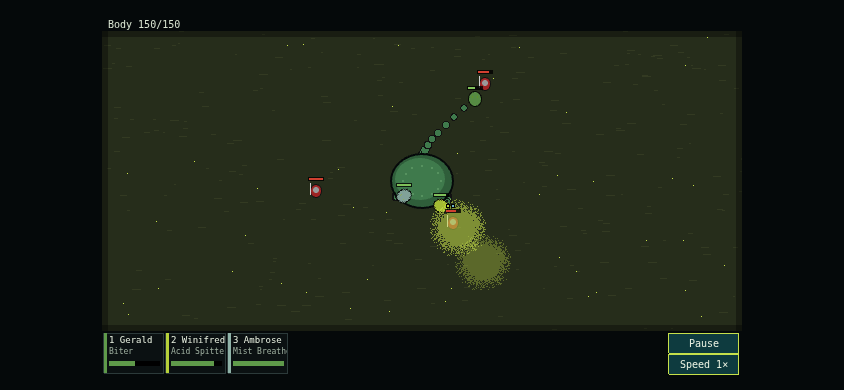
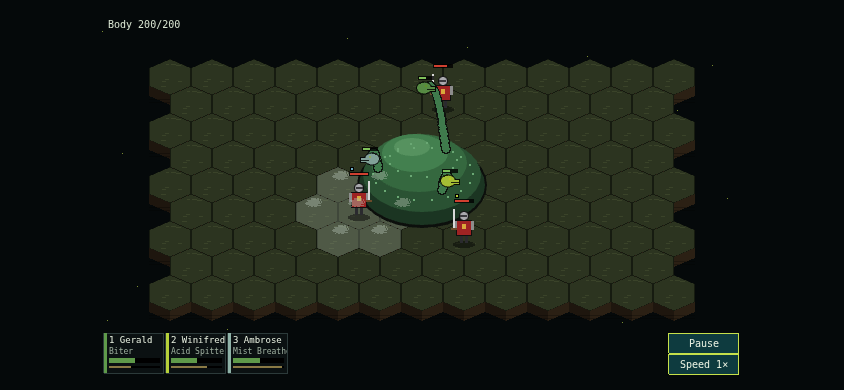
Smooth necks, hex wording in the hint, graphics spec for the slanted battle
docs/ASSETS.md describes every battle image for the slanted view (sizes,
anchors, prompt sketches); screenshots and the balance report are redone.

diff --git a/src/scenes/BattleScene.ts b/src/scenes/BattleScene.ts
@@ -33,7 +33,8 @@ const COMBO_SLOWDOWN_MS = 350;
 const HEAD_TAP_RADIUS = 14;
 /** Soldier images: how far around their feet a tap still counts as tapping them. */
 const SOLDIER_TAP = { halfWidth: 13, up: 38, down: 4 };
-const NECK_SEGMENTS = 12;
+/** Necks are drawn as overlapping discs, one every few pixels, so long necks stay one smooth tube. */
+const NECK_DISC_SPACING = 2.5;
 /** How fast drawn heads follow where they should be (ms to cover most of the way). */
 const HEAD_FOLLOW_MS = 90;
 
@@ -564,10 +565,12 @@ export class BattleScene extends Phaser.Scene {
   /** A neck as a chain of segments rising from the body in an arc, thinner towards the head. */
   private drawNeck(from: Point, to: Point): void {
     const bend = { x: (from.x + to.x) / 2, y: Math.min(from.y, to.y) - 18 };
+    const length = Math.hypot(bend.x - from.x, bend.y - from.y) + Math.hypot(to.x - bend.x, to.y - bend.y);
+    const discs = Math.max(8, Math.ceil(length / NECK_DISC_SPACING));
     for (const [width, fill] of [[5, 0x0e120e], [3.8, 0x3f7a4c]] as const) {
       this.necks.fillStyle(fill);
-      for (let i = 0; i <= NECK_SEGMENTS; i++) {
-        const t = i / NECK_SEGMENTS;
+      for (let i = 0; i <= discs; i++) {
+        const t = i / discs;
         const x = (1 - t) * (1 - t) * from.x + 2 * (1 - t) * t * bend.x + t * t * to.x;
         const y = (1 - t) * (1 - t) * from.y + 2 * (1 - t) * t * bend.y + t * t * to.y;
         this.necks.fillCircle(Math.round(x), Math.round(y), width - 1.5 * t);

diff --git a/docs/ASSETS.md b/docs/ASSETS.md
@@ -79,92 +79,103 @@ Prompt sketch: *"Pixel art game tile, 28x32 pixels, pointy-top hexagon, top-down
 
 A tiny hydra seen from above-front: a squat dark green body with **three heads** on short necks, eyes glowing yellow-green. Must read clearly at 20 px against teal and olive tiles; a dark outline helps.
 
-## Battle graphics: wait before drawing them
+## Battle graphics: the slanted view
 
-> **Status (2026-09-30):** the battle screen may change from this top-down view to a slanted view with a hex grid (see the open decision in the project chat). Everything below describes the current top-down placeholders. **Don't generate final battle graphics yet**: their sizes and viewing angle would change.
+The battle is a board of hexes seen from a slant (like the board in Into the Breach, but made of hexes), with the hydra's body in the middle. Rules for every battle graphic, on top of the general ones above:
 
-## Battle arenas: battle_arena_water, battle_arena_mud
+- **Seen from a slant:** the ground is squashed (a hex is 42 px wide and 36 px tall on screen); people and the hydra stand up and are seen from the side and a little from above (three-quarter view).
+- **Everyone faces right.** The game mirrors them when they face left.
+- Light from the upper left. Transparent background (tiles only have transparency outside the hex).
+- The board is 13 hexes across and 9 rows deep. Hex centres are 42 px apart within a row and rows are 27 px apart.
+- The numbers that the game relies on (tile sizes, the body's anchor, where feet stand) are also in `src/assets/battleArt.ts`.
+
+## Battle tiles: battle_tile_mud, battle_tile_water
 
 | | |
 |---|---|
-| Size | 640×300 px each |
-| Frames | 1 (static) |
-| Anchor | top-left (0, 0) |
-| Background | opaque, fills the whole arena |
-| Used in | battle screen, below the 16 px top bar and above the head cards |
+| Size | 42×46 px each |
+| Frames | 1 |
+| Anchor | centre of the top face, (21, 18) |
+| Background | transparent outside the tile |
+| Used in | battle board; one tile per hex |
 
-The floor of the fight, seen **straight from above**. Which one is used depends on the terrain of the map hex where the battle started.
+Two parts, one under the other:
 
-- **battle_arena_water:** a flooded cave: murky deep teal water, lighter teal ripple lines, a few glowing yellow-green spores.
-- **battle_arena_mud:** dark olive swamp mud, lighter clumps, a few glowing yellow-green spores.
+- **Top face (upper 36 px):** a pointy-top hex squashed vertically: top point at (21, 0), straight sides at x=0 and x=41 from y=9 to y=27, bottom point at (21, 35). Keep it quiet and low-contrast (soldiers, heads and HP bars are drawn on top) with a 1 px darker rim, so neighbouring hexes read as separate fields.
+- **Wall (lower 10 px):** earth under the two lower edges of the hex, as if the board were a thick slab: darker on the left half, a little lighter on the right, a few darker horizontal layers. Only the front row of the board shows its walls; the next row covers the rest.
 
-Keep the floor **quiet and low-contrast**: heads, necks, soldiers and HP bars are drawn on top and must stay readable. The outer ~6 px can be darker, like cave walls closing in. No objects that look like obstacles: the whole arena is walkable. The hydra sits in the middle (x 320, y 150) and the Order starts near the edges, all around it.
+- **battle_tile_mud:** dark olive swamp mud with a few lighter clumps.
+- **battle_tile_water:** murky teal shallow water with a few light ripples (battles that start on a water hex).
 
-Prompt sketch: *"Pixel art, 640x300, top-down view, hard pixels, no anti-aliasing. Floor of a [flooded cave, murky deep teal water with faint ripples / dark olive swamp mud with small clumps], scattered tiny yellow-green bioluminescent spores, darker edges. Low contrast, empty, no objects. Dark fantasy underground swamp."*
+Prompt sketch: *"Pixel art game tile, 42x46 pixels, transparent background. A pointy-top hexagon floor tile seen from a slanted top-down angle (squashed vertically, 42 wide and 36 tall), dark olive swamp mud with subtle lighter clumps and a 1 px darker rim; below its two lower edges a 10 px thick earth side wall, darker on the left, slightly lighter on the right, like a board game slab. Hard pixels, no anti-aliasing, dark fantasy underground swamp palette."*
 
 ## battle_body
 
 | | |
 |---|---|
-| Size | 64×56 px |
+| Size | 132×110 px |
 | Frames | 1 (static for now) |
-| Anchor | centre (32, 28) |
+| Anchor | middle of its footprint, (66, 66) from the left and top edges |
 | Background | transparent |
-| Used in | battle screen, the hydra's Body |
+| Used in | battle, the hydra's Body |
 
-The hydra's torso **seen from above**, without heads or necks (the game draws the necks itself, starting at the body's edge, and the heads are separate sprites). A squat, dark green, almost round mound with paler scales and a dark outline. It has no front or back: necks leave it evenly in every direction and soldiers stand all around it, so keep the outline a plain oval with no head-shaped bumps and no tail.
+The hydra's torso seen from the side and above, **without heads and necks** (the game draws the necks rising from the upper rim of the mound, and the heads are separate images). A big, squat mound of dark green scaly hide covering seven hexes: its base is an oval about 126 px wide and 84 px tall centred on the anchor, and it rises about 20 px above that, up to the top edge of the image. Paler scales on the back, a dark outline. It has no front or back: necks leave it in every direction and soldiers stand all around it, so no tail and no head-shaped bumps.
+
+Prompt sketch: *"Pixel art, 132x110, transparent background, seen from a slanted top-down angle. The headless, neckless torso of a swamp hydra: a huge squat mound of dark green scaly hide with paler scales on its back, dark outline, light from the upper left. No head, no neck, no tail. Hard pixels, no anti-aliasing, dark fantasy."*
 
 ## battle_head
 
 | | |
 |---|---|
-| Size | 16×16 px |
+| Size | 20×14 px |
 | Frames | 1 (static for now) |
-| Anchor | centre (8, 8); the game rotates the sprite around it |
+| Anchor | centre |
 | Background | transparent |
-| Used in | battle screen, one per head |
+| Used in | battle, one per head, at the end of its neck |
 
-One hydra head seen from above, **facing right** (snout at the right edge), two small glowing yellow eyes. Draw it in **pale grey / white with a dark outline**: the game tints it with the colour of the head's class (from `src/data/heads.json`), so a coloured drawing would come out muddy. One sprite serves all classes.
+One hydra head seen from the side, **snout pointing right**, a glowing eye, a long mouth line. Draw it in **pale grey / white with a dark outline**: the game tints it with the colour of the head's class (from `src/data/heads.json`), so one image serves all classes.
 
 ## Order soldiers: battle_enemy_manAtArms, battle_enemy_headhunter, battle_enemy_torchbearer
 
 | | |
 |---|---|
-| Size | 14×18 px each |
-| Frames | 1 (static for now) |
-| Anchor | centre (7, 9) |
+| Size | 26×38 px each |
+| Frames | 1 (static for now; the game makes them bob, hop and lunge) |
+| Anchor | feet, at the bottom middle (13, 37) |
 | Background | transparent |
-| Used in | battle screen |
+| Used in | battle, one per soldier standing on a hex |
 
-People of the Order of the Eternal Flame **seen from above**: helmet in the middle, shoulders, tabard. They are not rotated by the game, so draw them upright. Each must be recognisable at a glance at this size, mainly by colour and by what they carry (held on the left side of the sprite):
+People of the Order of the Eternal Flame, standing, seen from the side and a little from above, **facing right**, holding their gear on the right side (towards the enemy). Each must be recognisable at a glance by colour and gear:
 
-- **battle_enemy_manAtArms:** banner-red tabard, steel helmet, a sword.
-- **battle_enemy_headhunter:** dark blood-red, heavier build, a big axe.
-- **battle_enemy_torchbearer:** a lay brother in a brown habit carrying a burning torch: the only warm, bright flame on the screen.
+- **battle_enemy_manAtArms:** banner-red tabard with a small gold flame, steel helmet with a visor, a sword held upright.
+- **battle_enemy_headhunter:** dark blood-red, broader build, a big axe.
+- **battle_enemy_torchbearer:** a lay brother in a brown habit, tonsured head, no helmet, carrying a burning torch: the only bright, warm flame on the board.
 
-A new enemy type needs a graphic with the key `battle_enemy_<type id from enemies.json>`; without one, the game shows the Man-at-Arms.
+A new enemy type needs an image with the key `battle_enemy_<type id from enemies.json>`; without one, the game shows the Man-at-Arms.
+
+Prompt sketch: *"Pixel art character sprite, 26x38 pixels, transparent background, seen from a slanted top-down three-quarter angle, standing, facing right. A man-at-arms of a grim fire-worshipping religious order: banner-red tabard with a small gold flame emblem, steel helmet with visor, sword held upright on the right. Hard pixels, no anti-aliasing, dark outline, dark fantasy with warm colours."*
 
 ## battle_stump, battle_scar
 
 | | |
 |---|---|
-| Size | 10×10 px each |
+| Size | 10×8 px each |
 | Frames | 1 |
-| Anchor | centre (5, 5) |
+| Anchor | centre |
 | Background | transparent |
-| Used in | battle screen, at the body's edge where a head was severed |
+| Used in | battle, on the rim of the body where a head was severed |
 
-- **battle_stump:** a fresh neck stump seen from above: a raw dark red disc with a darker rim. Two new heads will grow from it.
+- **battle_stump:** a fresh neck stump seen from a slant: a raw dark red oval with a darker rim. Two new heads will grow from it.
 - **battle_scar:** the same stump burnt shut: charred black-brown, no red. Nothing grows from it.
 
-## battle_mist_cloud
+## battle_mist_puff
 
-| | |
-|---|---|
-| Size | 64×64 px |
-| Frames | 1 (static for now) |
-| Anchor | centre (32, 32) |
-| Background | transparent |
-| Used in | battle screen, where a Mist Breather's breath lands |
+20×11 px, anchor centre. A small puff of mist: solid middle breaking up into scattered pixels at the edge, **white**. The game tints it pale greenish grey (or yellow-green when the Mist turns to Acid Fog) and floats a few of them over each misty hex. Can stay a code placeholder.
 
-A round puff of mist **seen from above**: solid in the middle, breaking up into scattered pixels towards the edge (dithering, not a smooth gradient), transparent corners. Draw it in **white / very pale grey**: the game tints it pale greenish grey for plain Mist and yellow-green when it turns into Acid Fog, and draws it half see-through over heads and soldiers. The game also scales it to the cloud radius from `src/data/combos.json` (now 30 px, so the sprite is shown at about 60×60).
+## battle_shadow, battle_hex_mark, battle_hex_fill
+
+Helpers that can stay code placeholders:
+
+- **battle_shadow** (22×7): a plain oval, drawn black and half see-through under each soldier's feet.
+- **battle_hex_mark** (42×36): the outline of a squashed hex in white, tinted by the game to show a head's reach, targets and where the body is going.
+- **battle_hex_fill** (42×36): the same hex filled white, tinted pale for Mist over a hex.

diff --git a/docs/BALANCE.md b/docs/BALANCE.md
@@ -2,7 +2,7 @@
 
 Made by `npm run balance` from the numbers in `src/data/`. Run it again after changing them; don't edit this file by hand.
 
-200 automatic battles per row, each with a fresh hydra (Biter, Acid Spitter, Mist Breather) and 150 body HP.
+200 automatic battles per row, each with a fresh hydra (Biter, Acid Spitter, Mist Breather) and 200 body HP.
 
 - **no orders:** the hydra is left alone, heads pick their own targets.
 - **focus fire:** every head that can reach attacks the same enemy (Torchbearers first, then Headhunters). A stand-in for a careful player.
@@ -11,11 +11,11 @@ Made by `npm run balance` from the numbers in `src/data/`. Run it again after ch
 
 | Enemy group | Members | Player | Won | Lost | Avg. length | Heads severed | Stumps burnt | Combos | Body HP lost |
 | --- | --- | --- | --- | --- | --- | --- | --- | --- | --- |
-| patrol | Man-at-Arms, Man-at-Arms, Man-at-Arms | no orders | 100% | 0% | 41 s | 3.1 | 0.0 | 5.7 | 23.9 |
-| patrol | Man-at-Arms, Man-at-Arms, Man-at-Arms | focus fire | 100% | 0% | 39 s | 1.8 | 0.0 | 6.4 | 35.3 |
-| huntingParty | Man-at-Arms, Headhunter, Headhunter | no orders | 100% | 0% | 32 s | 3.8 | 0.0 | 5.4 | 9.8 |
-| huntingParty | Man-at-Arms, Headhunter, Headhunter | focus fire | 100% | 0% | 32 s | 2.2 | 0.0 | 6.7 | 24.4 |
-| burningDetail | Man-at-Arms, Man-at-Arms, Torchbearer, Headhunter | no orders | 97% | 3% | 45 s | 5.0 | 0.6 | 5.9 | 47.1 |
-| burningDetail | Man-at-Arms, Man-at-Arms, Torchbearer, Headhunter | focus fire | 100% | 0% | 41 s | 2.1 | 0.0 | 9.2 | 54.4 |
-| lostNovices | Torchbearer, Torchbearer | no orders | 100% | 0% | 13 s | 0.0 | 0.0 | 4.3 | 0.0 |
-| lostNovices | Torchbearer, Torchbearer | focus fire | 100% | 0% | 12 s | 0.0 | 0.0 | 6.1 | 1.7 |
+| patrol | Man-at-Arms, Man-at-Arms, Man-at-Arms | no orders | 98% | 2% | 41 s | 2.0 | 0.0 | 3.9 | 100.0 |
+| patrol | Man-at-Arms, Man-at-Arms, Man-at-Arms | focus fire | 100% | 0% | 37 s | 1.3 | 0.0 | 6.5 | 67.2 |
+| huntingParty | Man-at-Arms, Headhunter, Headhunter | no orders | 100% | 0% | 30 s | 4.0 | 0.0 | 4.3 | 34.7 |
+| huntingParty | Man-at-Arms, Headhunter, Headhunter | focus fire | 100% | 1% | 30 s | 2.2 | 0.0 | 6.4 | 32.4 |
+| burningDetail | Man-at-Arms, Man-at-Arms, Torchbearer, Headhunter | no orders | 89% | 11% | 46 s | 4.2 | 0.7 | 5.0 | 112.6 |
+| burningDetail | Man-at-Arms, Man-at-Arms, Torchbearer, Headhunter | focus fire | 100% | 0% | 38 s | 1.8 | 0.0 | 8.3 | 79.4 |
+| lostNovices | Torchbearer, Torchbearer | no orders | 100% | 0% | 11 s | 0.0 | 0.0 | 3.9 | 2.5 |
+| lostNovices | Torchbearer, Torchbearer | focus fire | 100% | 0% | 9 s | 0.0 | 0.0 | 5.7 | 1.5 |
